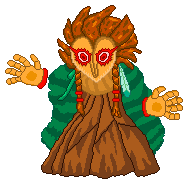
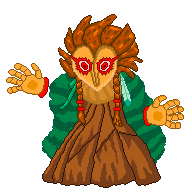
Boss Ajustements & Gashadokuro Combat Prototype

diff --git a/Guardians-of-Zenith/Game/Source/Combat.cpp b/Guardians-of-Zenith/Game/Source/Combat.cpp
@@ -1335,7 +1335,7 @@ bool Combat::Update(float dt)
 					app->render->DrawTexture(E1asset, app->scene->player->position.x + 115 - E1BOSS - 35, app->scene->player->position.y - 70 - E1BOSS- 10);
 				}
 				else {
-					app->render->DrawTexture(E1asset, app->scene->player->position.x + 115 - E1BOSS - 35, app->scene->player->position.y - 70 - E1BOSS);
+					app->render->DrawTexture(E1asset, app->scene->player->position.x + 115 - E1BOSS - 35, app->scene->player->position.y - 70 - E1BOSS - 5);
 				}
 
 				//Int to string convert
